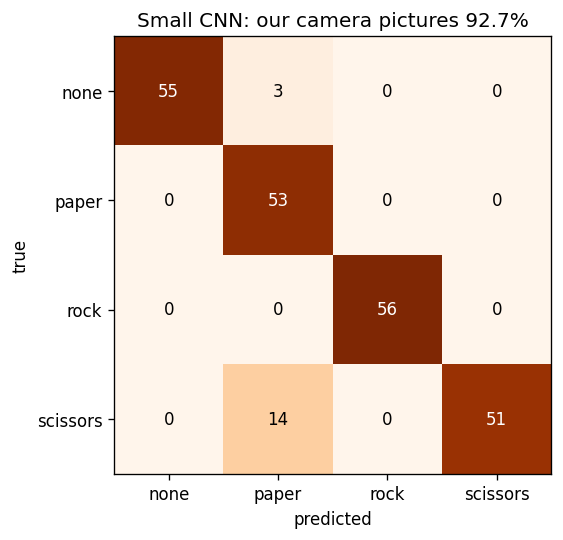
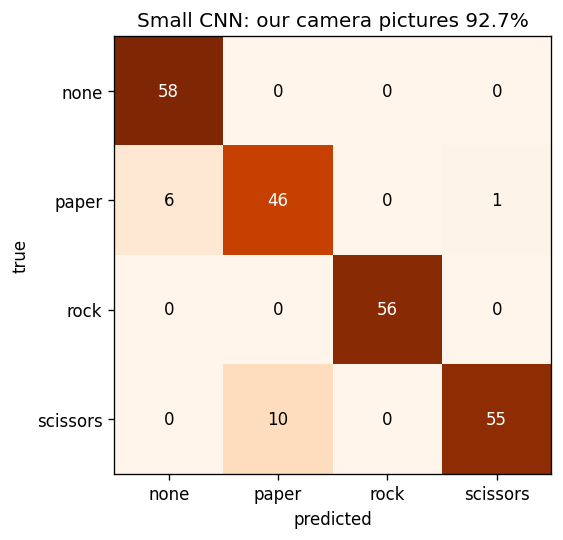
Retrain both models with outdoor and lounge pictures: MobileNetV2 99.1% camera test, 82.5% on newest places vs small CNN 60.1%

diff --git a/Models/RESULTS.md b/Models/RESULTS.md
@@ -6,72 +6,74 @@ Our camera test: our own OV7675 pictures in `data/test` (never used for training
 
 | Model | Kaggle test | Wrong | Our camera test | Best val | Parameters | Trained at start | Epochs | s/epoch | ms/picture |
 |---|---|---|---|---|---|---|---|---|---|
-| Small CNN | **96.2%** | 14/372 | **92.7%** (232 pictures) | 86.6% | 93,636 | 93,636 | 30 | 21 (cuda) | 3.3 |
-| MobileNetV2 | **86.6%** | 50/372 | **95.3%** (232 pictures) | 93.9% | 2,388,356 | 164,484 | 8 | 52 (cuda) | 7.6 |
+| Small CNN | **83.1%** | 63/372 | **92.7%** (232 pictures) | 60.1% | 93,636 | 93,636 | 30 | 25 (cuda) | 4.3 |
+| MobileNetV2 | **87.6%** | 46/372 | **99.1%** (232 pictures) | 82.5% | 2,388,356 | 164,484 | 8 | 68 (cuda) | 6.2 |
 
 ## Per class (test set)
 
 | Model | Class | Precision | Recall |
 |---|---|---|---|
-| Small CNN | paper | 0.975 | 0.960 |
-| Small CNN | rock | 0.919 | 1.000 |
-| Small CNN | scissors | 1.000 | 0.927 |
-| MobileNetV2 | paper | 1.000 | 0.621 |
-| MobileNetV2 | rock | 0.992 | 0.976 |
-| MobileNetV2 | scissors | 0.717 | 1.000 |
+| Small CNN | paper | 1.000 | 0.758 |
+| Small CNN | rock | 0.738 | 1.000 |
+| Small CNN | scissors | 0.827 | 0.734 |
+| MobileNetV2 | paper | 0.988 | 0.661 |
+| MobileNetV2 | rock | 0.890 | 0.976 |
+| MobileNetV2 | scissors | 0.804 | 0.992 |
 
 ## Training curves, both models
 
-![Comparison](figures/comparison_curves.png?v=823c4619)
+![Comparison](figures/comparison_curves.png?v=d85fd786)
 
 ## Small CNN
 
-![Small CNN training curves](figures/cnn_training_curves.png?v=46b4f6fc)
+![Small CNN training curves](figures/cnn_training_curves.png?v=b686501f)
 
-![Small CNN confusion matrix](figures/cnn_confusion.png?v=4d8cb598)
+![Small CNN confusion matrix](figures/cnn_confusion.png?v=ac595b9c)
 
-![Small CNN mistakes](figures/cnn_mistakes.png?v=f516f1c8)
+![Small CNN mistakes](figures/cnn_mistakes.png?v=8b31051a)
 
-![Small CNN on our camera pictures](figures/cnn_own_confusion.png?v=189760fd)
+![Small CNN on our camera pictures](figures/cnn_own_confusion.png?v=9e7e2a64)
 
 ## MobileNetV2
 
-![MobileNetV2 training curves](figures/mobilenet_training_curves.png?v=8c2f3c3e)
+![MobileNetV2 training curves](figures/mobilenet_training_curves.png?v=d3d2fdf5)
 
-![MobileNetV2 confusion matrix](figures/mobilenet_confusion.png?v=4a36016d)
+![MobileNetV2 confusion matrix](figures/mobilenet_confusion.png?v=4ca8ad78)
 
-![MobileNetV2 mistakes](figures/mobilenet_mistakes.png?v=9af44969)
+![MobileNetV2 mistakes](figures/mobilenet_mistakes.png?v=4caf7566)
 
-![MobileNetV2 on our camera pictures](figures/mobilenet_own_confusion.png?v=be3cda12)
+![MobileNetV2 on our camera pictures](figures/mobilenet_own_confusion.png?v=8adff100)
 
 ## Conclusion
 
 We will use **MobileNetV2 (transfer learning)** for the game.
 
-- **Works on our camera:** trained on Kaggle plus 1,421 of our own OV7675 pictures from several rooms and
-  sessions (including a "none" class for when no hand is shown), MobileNetV2 scores **95.3% on 232 camera
-  pictures it never trained on**. Every "no hand" and paper picture was right; the mistakes were 9
-  scissors called paper and 2 rocks called "none".
+- **Works on our camera:** trained on Kaggle plus about 2,200 of our own OV7675 pictures from several rooms,
+  outdoors and at different times of day (including a "none" class for when no hand is shown), MobileNetV2
+  scores **99.1% on 232 camera pictures it never trained on**: only 2 scissors were called paper.
+- **It handles new places much better than the small CNN:** our validation pictures are the newest 15% of each
+  class, mostly from the newest places (outdoors and a lounge, with paper also shown edge-on). There MobileNetV2
+  reaches **82.5%** and was still improving after 8 epochs, while the small CNN reaches only **60.1%**. The CNN
+  even struggles to learn the training pictures (77% after 30 epochs): with 94k parameters learned from scratch it
+  cannot cover this many different scenes, while MobileNetV2 reuses shape features learned from ImageNet.
+- **Versus the small CNN on the camera test:** the small CNN scores **92.7%** (17 mistakes: 10 scissors called
+  paper, 6 paper called "none"), against MobileNetV2's 99.1% (2 mistakes).
 - **Our own pictures were necessary:** trained on Kaggle alone, the model guessed "paper" for almost
   everything the camera showed, including an empty scene. Kaggle's pictures are rendered hands on white
   backgrounds and have no "none" class.
 - **Lighting and sessions matter:** with pictures from only one session per room, the model learned each
-  session's lighting. It called 41 of 60 empty-room pictures from a different time of day "rock". Adding
-  those pictures to training and randomly varying brightness, contrast and blur made it more robust.
-- **Trade-off on Kaggle:** focusing on our camera lowered accuracy on Kaggle's rendered hands from 94.9%
-  to 86.6% (it now often calls Kaggle's paper "scissors"). The game only sees our camera, so we accept this.
-- **Versus the small CNN:** trained on the same data, the small CNN (trained from scratch, 94k parameters)
-  scores **92.7% on our camera pictures**, compared with MobileNetV2's 95.3%. It confuses scissors with paper
-  more often (14 vs 9 times) and calls 3 "no hand" pictures paper. MobileNetV2 also learns much faster thanks
-  to pretrained ImageNet features (about 90% validation accuracy after 2 epochs; the CNN needed 30 epochs).
-- **The small CNN improved most from the extra data:** with our pictures, stronger augmentation and 30 epochs,
-  its Kaggle accuracy rose from 88.4% to 96.2%, now above MobileNetV2's 86.6% there. The game only sees our
-  camera, where MobileNetV2 is better, so the game uses MobileNetV2.
-- **Both models confuse scissors with paper:** since both make the same mistake, it comes from the data rather
-  than the model; more varied scissors pictures are the most useful next step.
+  session's lighting. It called 41 of 60 empty-room pictures from a different time of day "rock". Pictures from
+  more places and times, plus random changes of brightness, contrast and blur, made it more robust.
+- **Trade-off on Kaggle:** focusing on our camera keeps Kaggle accuracy lower than a Kaggle-only model
+  (MobileNetV2 87.6% now, 94.9% trained on Kaggle alone; the small CNN dropped from 96.2% to 83.1% with the new
+  pictures). The game only sees our camera, so we accept this.
+- **Scissors vs paper is the hardest pair:** both models' remaining camera mistakes are mostly scissors called
+  paper, so more varied scissors pictures are the most useful next step.
 - **Fast enough:** a prediction takes about 6 ms on a T4 GPU and 28 ms on a laptop CPU, small next to the
   camera, which delivers a new picture about every 400 ms (2.5 per second).
 
-**Limitations:** the camera test set is small (232 pictures), comes from one person's hand, and partly
-from the same sessions as training pictures, so accuracy in a new room or with other people is likely
-lower. A fresh test set recorded in a separate session would give a more honest number.
+**Limitations:** the camera test set (232 pictures) comes from one person's hand and only from the earliest
+recording sessions, so the 99.1% does not cover the newer places; the 82.5% validation accuracy on the newest
+pictures is a more realistic estimate for a new room. A test set recorded in new places, and with other people's
+hands, would give a more honest number. The model has also never seen a face, so a face in the box (likely with a
+laptop webcam) can be mistaken for "rock".

diff --git a/Models/CONCLUSION.md b/Models/CONCLUSION.md
@@ -2,30 +2,32 @@
 
 We will use **MobileNetV2 (transfer learning)** for the game.
 
-- **Works on our camera:** trained on Kaggle plus 1,421 of our own OV7675 pictures from several rooms and
-  sessions (including a "none" class for when no hand is shown), MobileNetV2 scores **95.3% on 232 camera
-  pictures it never trained on**. Every "no hand" and paper picture was right; the mistakes were 9
-  scissors called paper and 2 rocks called "none".
+- **Works on our camera:** trained on Kaggle plus about 2,200 of our own OV7675 pictures from several rooms,
+  outdoors and at different times of day (including a "none" class for when no hand is shown), MobileNetV2
+  scores **99.1% on 232 camera pictures it never trained on**: only 2 scissors were called paper.
+- **It handles new places much better than the small CNN:** our validation pictures are the newest 15% of each
+  class, mostly from the newest places (outdoors and a lounge, with paper also shown edge-on). There MobileNetV2
+  reaches **82.5%** and was still improving after 8 epochs, while the small CNN reaches only **60.1%**. The CNN
+  even struggles to learn the training pictures (77% after 30 epochs): with 94k parameters learned from scratch it
+  cannot cover this many different scenes, while MobileNetV2 reuses shape features learned from ImageNet.
+- **Versus the small CNN on the camera test:** the small CNN scores **92.7%** (17 mistakes: 10 scissors called
+  paper, 6 paper called "none"), against MobileNetV2's 99.1% (2 mistakes).
 - **Our own pictures were necessary:** trained on Kaggle alone, the model guessed "paper" for almost
   everything the camera showed, including an empty scene. Kaggle's pictures are rendered hands on white
   backgrounds and have no "none" class.
 - **Lighting and sessions matter:** with pictures from only one session per room, the model learned each
-  session's lighting. It called 41 of 60 empty-room pictures from a different time of day "rock". Adding
-  those pictures to training and randomly varying brightness, contrast and blur made it more robust.
-- **Trade-off on Kaggle:** focusing on our camera lowered accuracy on Kaggle's rendered hands from 94.9%
-  to 86.6% (it now often calls Kaggle's paper "scissors"). The game only sees our camera, so we accept this.
-- **Versus the small CNN:** trained on the same data, the small CNN (trained from scratch, 94k parameters)
-  scores **92.7% on our camera pictures**, compared with MobileNetV2's 95.3%. It confuses scissors with paper
-  more often (14 vs 9 times) and calls 3 "no hand" pictures paper. MobileNetV2 also learns much faster thanks
-  to pretrained ImageNet features (about 90% validation accuracy after 2 epochs; the CNN needed 30 epochs).
-- **The small CNN improved most from the extra data:** with our pictures, stronger augmentation and 30 epochs,
-  its Kaggle accuracy rose from 88.4% to 96.2%, now above MobileNetV2's 86.6% there. The game only sees our
-  camera, where MobileNetV2 is better, so the game uses MobileNetV2.
-- **Both models confuse scissors with paper:** since both make the same mistake, it comes from the data rather
-  than the model; more varied scissors pictures are the most useful next step.
+  session's lighting. It called 41 of 60 empty-room pictures from a different time of day "rock". Pictures from
+  more places and times, plus random changes of brightness, contrast and blur, made it more robust.
+- **Trade-off on Kaggle:** focusing on our camera keeps Kaggle accuracy lower than a Kaggle-only model
+  (MobileNetV2 87.6% now, 94.9% trained on Kaggle alone; the small CNN dropped from 96.2% to 83.1% with the new
+  pictures). The game only sees our camera, so we accept this.
+- **Scissors vs paper is the hardest pair:** both models' remaining camera mistakes are mostly scissors called
+  paper, so more varied scissors pictures are the most useful next step.
 - **Fast enough:** a prediction takes about 6 ms on a T4 GPU and 28 ms on a laptop CPU, small next to the
   camera, which delivers a new picture about every 400 ms (2.5 per second).
 
-**Limitations:** the camera test set is small (232 pictures), comes from one person's hand, and partly
-from the same sessions as training pictures, so accuracy in a new room or with other people is likely
-lower. A fresh test set recorded in a separate session would give a more honest number.
+**Limitations:** the camera test set (232 pictures) comes from one person's hand and only from the earliest
+recording sessions, so the 99.1% does not cover the newer places; the 82.5% validation accuracy on the newest
+pictures is a more realistic estimate for a new room. A test set recorded in new places, and with other people's
+hands, would give a more honest number. The model has also never seen a face, so a face in the box (likely with a
+laptop webcam) can be mistaken for "rock".
